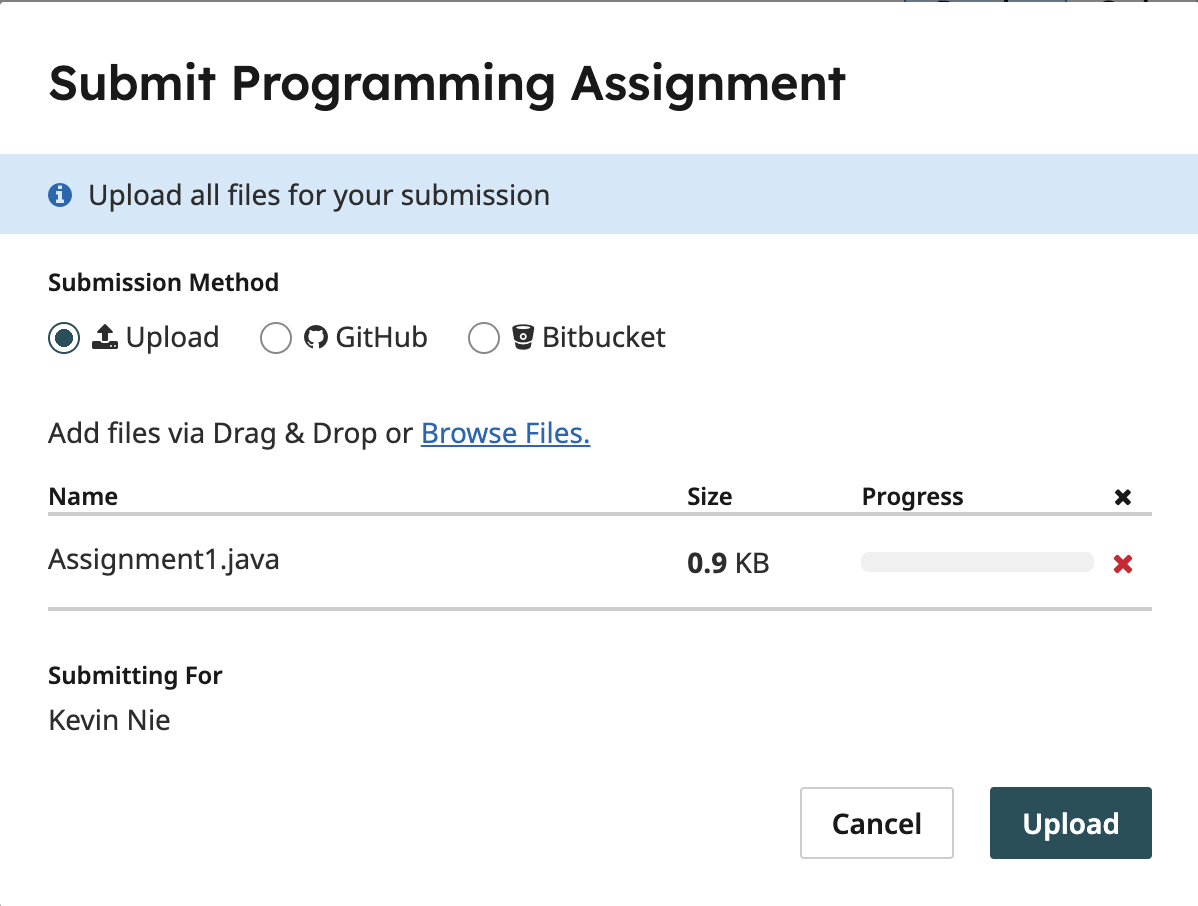
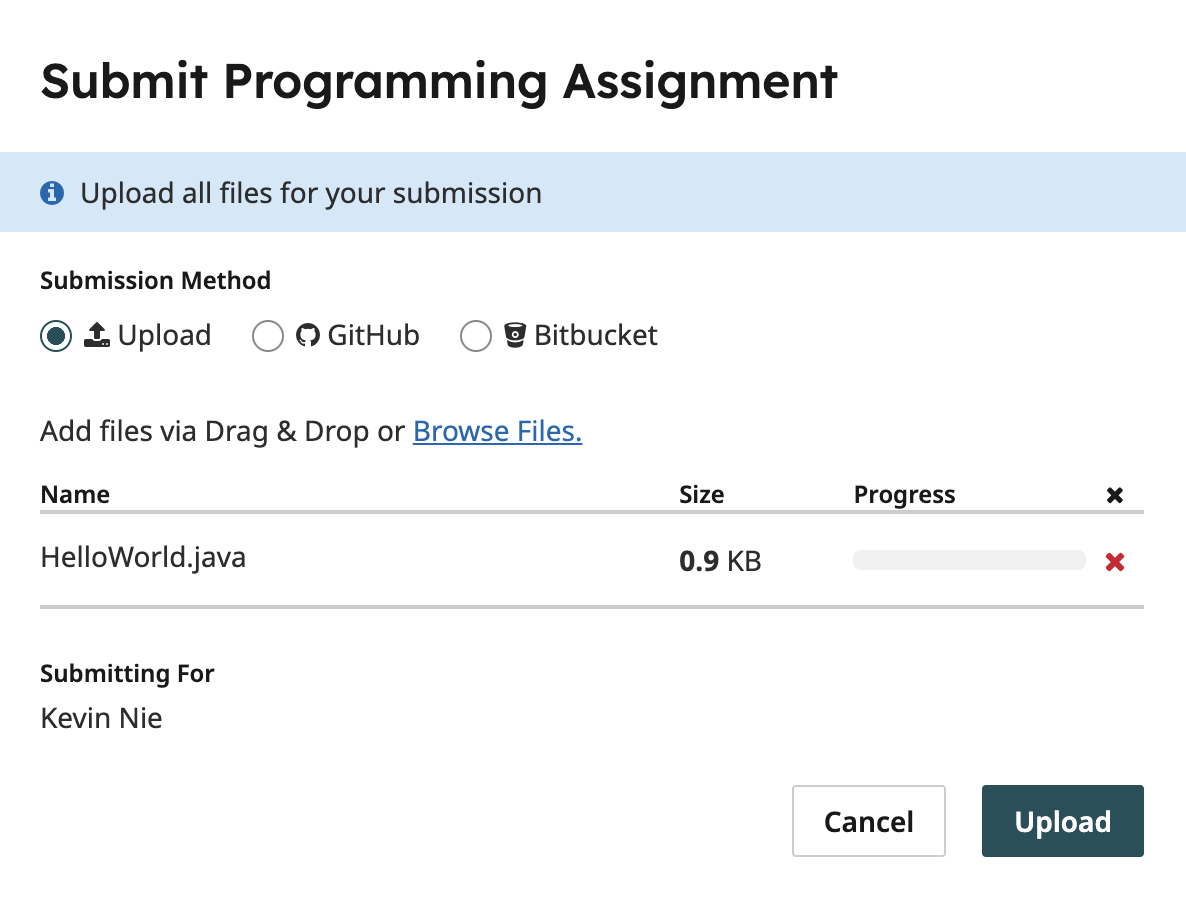
Update README.md

diff --git a/README.md b/README.md
@@ -223,7 +223,7 @@ text editor. You can install VS Code by following the link below.
 
 ### Your First Java Program
 
-You will create a new Java file named `Assignment1.java` in Visual Studio Code.
+You will create a new Java file named `HelloWorld.java` in Visual Studio Code.
 
 1. Open up Visual Studio Code.
 
@@ -255,13 +255,13 @@ You will create a new Java file named `Assignment1.java` in Visual Studio Code.
 
     ![VS Code Integrated Terminal](img/18.png)
 
-7. Now let's create a Java file called `Assignment1.java`. You can do this either from the terminal we just opened or by simply using VS Code.
+7. Now let's create a Java file called `HelloWorld.java`. You can do this either from the terminal we just opened or by simply using VS Code.
 
     a. **Terminal**
     
-    Create the `Assignment1.java` file using terminal commands:
-    - Mac/Linux: `touch Assignment1.java`
-    - Windows: `type nul > Assignment1.java`
+    Create the `HelloWorld.java` file using terminal commands:
+    - Mac/Linux: `touch HelloWorld.java`
+    - Windows: `type nul > HelloWorld.java`
     ![Creating Java File in Terminal](img/19.png)
 
     b. **VS Code**
@@ -274,9 +274,9 @@ You will create a new Java file named `Assignment1.java` in Visual Studio Code.
 
     ![Naming the Java File](img/21.png)
 
-8. Type the contents of the screenshot below into your newly created `Assignment1.java` file
+8. Type the contents of the screenshot below into your newly created `HelloWorld.java` file:
 
-    ![Java Code Template](img/22.png)
+    ![HelloWorld.java Code Template](img/22.png)
 
 9. Then, you need to write two lines of code below `// Put your code below`
 
@@ -284,26 +284,28 @@ You will create a new Java file named `Assignment1.java` in Visual Studio Code.
 
     b. Then on another new line, tell the class what your favorite hobby is: **My favorite hobby is \<what your favorite hobby is\>**
 
-10. Save this file by navigating to the top left-hand corner again or by pressing **Ctrl + S** (Windows) or **Cmd + S** (Mac) at the same time.
+10. Save this file by navigating to the top left-hand corner again or by pressing **Ctrl + S** (Windows) or **Cmd + S** (Mac) at the same time. 
+
+    **Tip:** To make your coding experience smoother, you can enable Auto Save in VS Code by going to File → Auto Save. This will automatically save your files as you type, so you don't have to worry about manually saving every time you make changes.
 
     ![VS Code Save File](img/23.png)
 
-    You will know if your new code is saved when the white dot next to the filename at the top of the tab disappears. In the below screenshot, recent changes to `Assignment1.java` are unsaved.
+    You will know if your new code is saved when the white dot next to the filename at the top of the tab disappears. In the below screenshot, recent changes to `HelloWorld.java` are unsaved.
 
     ![Unsaved File Indicator](img/24.png)
 
-11. After that, go back to the terminal and make sure you are in the same directory where you saved your `Assignment1.java` file. Before you run every Java code, you need to compile it first using the `javac` command.
+11. After that, go back to the terminal and make sure you are in the same directory where you saved your `HelloWorld.java` file. Before you run every Java code, you need to compile it first using the `javac` command.
 
     **Important Note:** If you make changes to a `.java` file, you will need to compile your code again before you can run the file with the updated changes.
 
     **Linux and macOS:**
     ```bash
-    $ javac Assignment1.java
+    $ javac HelloWorld.java
     ```
 
     **Windows:**
     ```cmd
-    > javac Assignment1.java
+    > javac HelloWorld.java
     ```
 
     Notice that a brand new `.class` file appeared in your directory after compiling!
@@ -314,12 +316,12 @@ You will create a new Java file named `Assignment1.java` in Visual Studio Code.
 
     **Linux and macOS:**
     ```bash
-    $ java Assignment1
+    $ java HelloWorld
     ```
 
     **Windows:**
     ```cmd
-    > java Assignment1
+    > java HelloWorld
     ```
 
     You should see three lines of output in the terminal.
@@ -339,7 +341,7 @@ make the exact submission format.**
 
 1. Go to Gradescope and click on Assignment 1.
 
-2. Click the DRAG & DROP section and directly select the required file `Assignment1.java`. Drag & drop is fine. *Please make sure you don't submit a zip.* Just this single file solely. *Make sure the name of the file is correct!*
+2. Click the DRAG & DROP section and directly select the required file `HelloWorld.java`. Drag & drop is fine. *Please make sure you don't submit a zip.* Just this single file solely. *Make sure the name of the file is correct!*
 
 3. **You can resubmit unlimited times before the due date.** Your score will depend on your final submission, even if your former submissions have a higher score.
 
